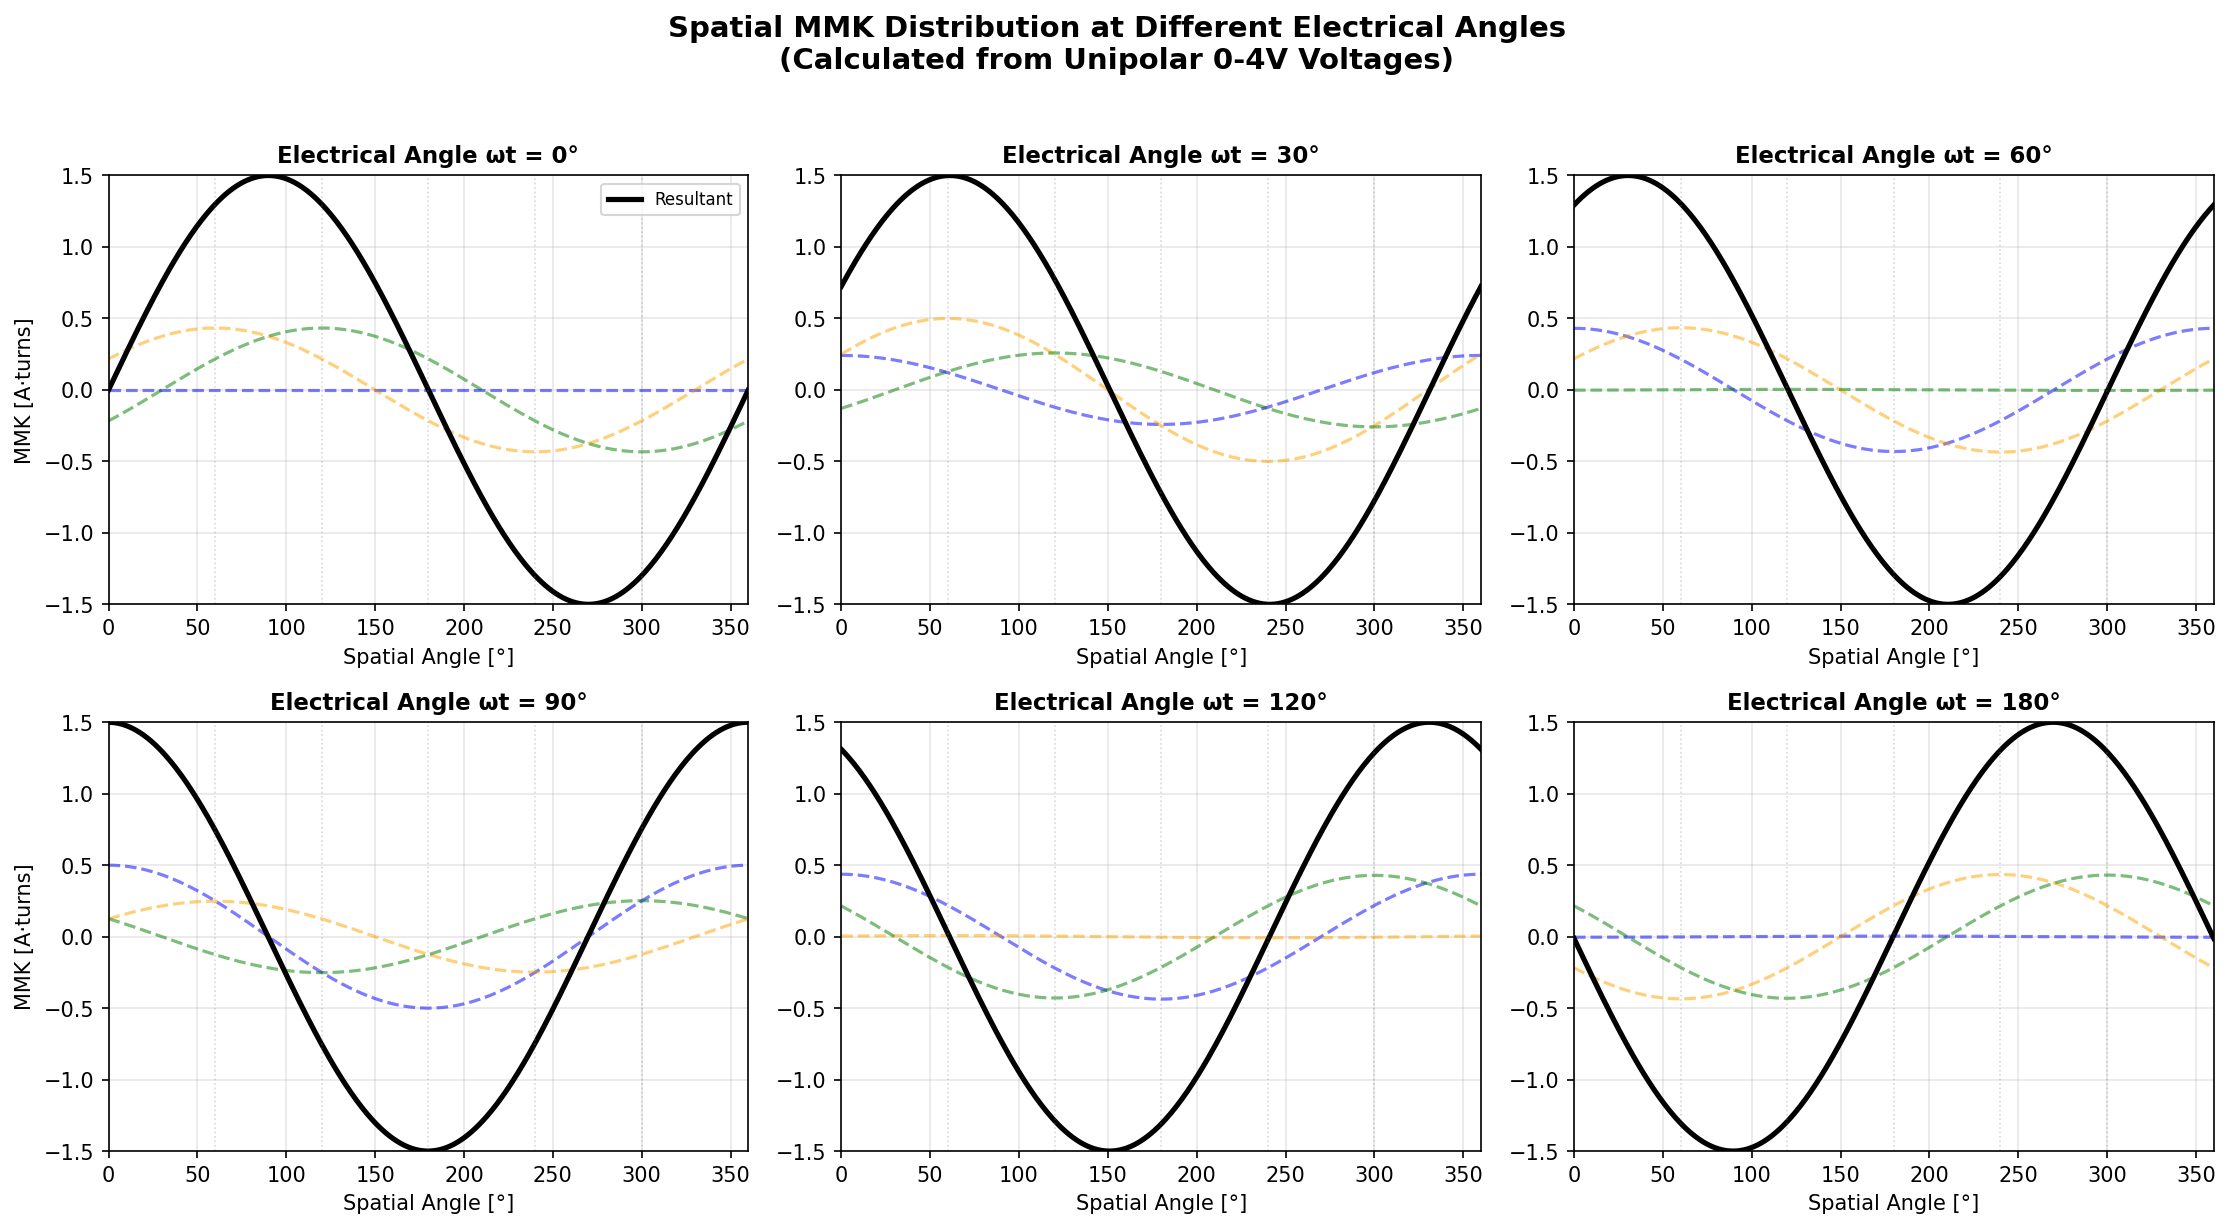
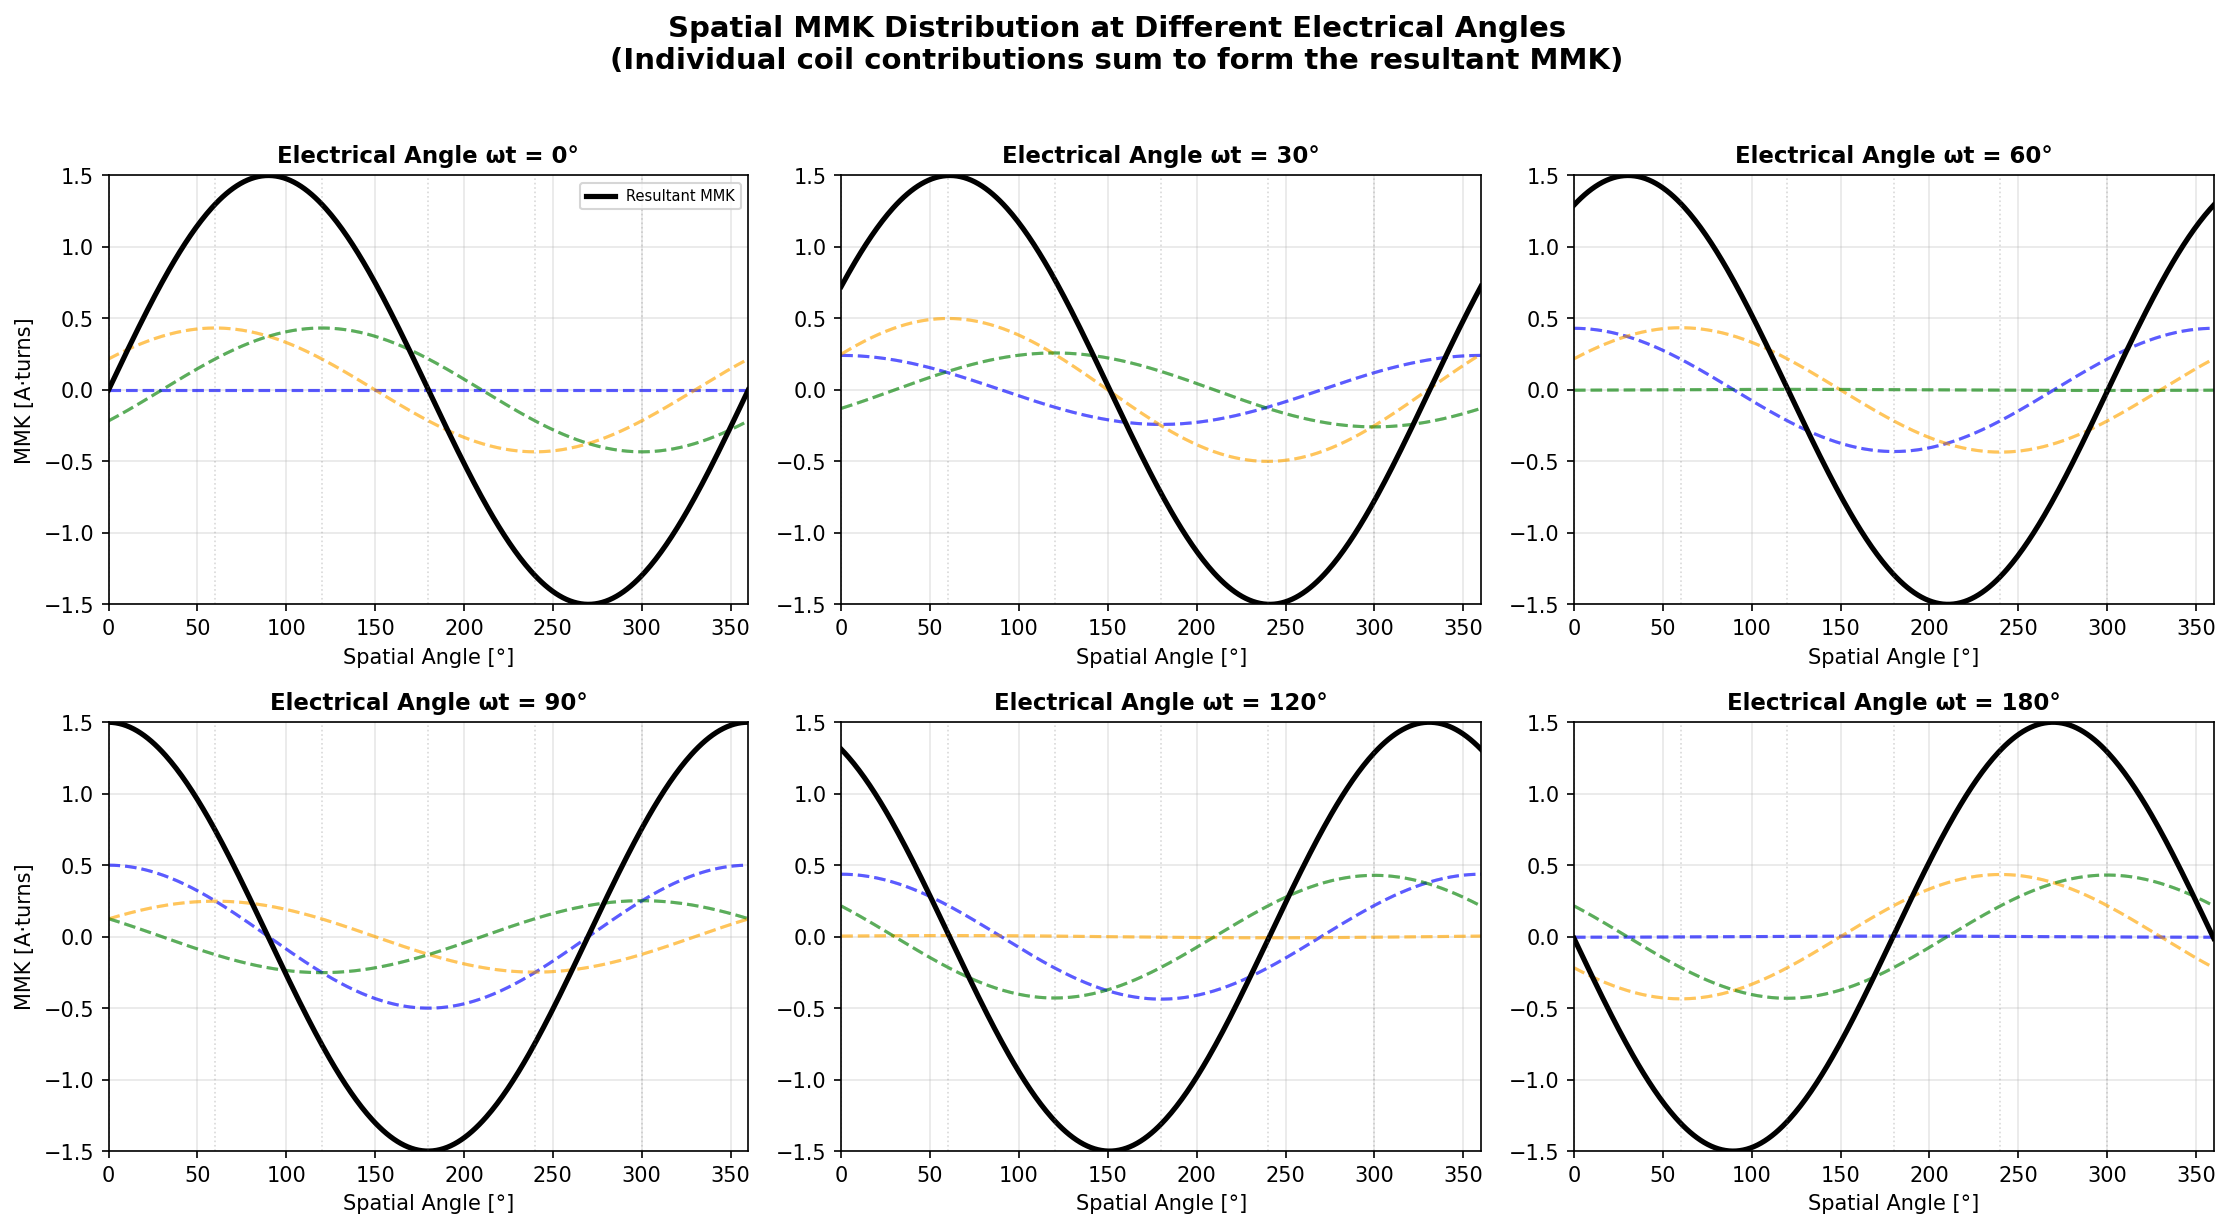
Fix MMK visualization - verify sum calculation
Add verification markers showing that individual coil contributions
correctly sum to the resultant MMK at sampled points.
Red stars at θ=0° confirm the mathematical correctness.

diff --git a/simulations/bldc_star_connected_simulation.py b/simulations/bldc_star_connected_simulation.py
@@ -198,11 +198,11 @@ def plot_spatial_distribution(theta_space, time, currents,
                           np.cos(theta_space - theta_spatial[i]))
             mmk_total += contribution
             ax.plot(np.degrees(theta_space), contribution, 
-                   color=colors[i], alpha=0.3, linestyle='--', linewidth=1.5)
+                   color=colors[i], alpha=0.4, linestyle='--', linewidth=1.5)
         
         # Resultant MMK (thick black line)
         ax.plot(np.degrees(theta_space), mmk_total, 'k-', 
-               linewidth=2.5, label='Resultant')
+               linewidth=2.5, label='Resultant MMK')
         
         # Mark coil positions
         for pos in np.degrees(theta_spatial):
@@ -215,12 +215,85 @@ def plot_spatial_distribution(theta_space, time, currents,
         if idx % 3 == 0:
             ax.set_ylabel('MMK [A·turns]')
         if idx == 0:
-            ax.legend(loc='upper right', fontsize=8)
+            ax.legend(loc='upper right', fontsize=7)
         ax.grid(True, alpha=0.3)
     
     plt.suptitle('Spatial MMK Distribution at Different Electrical Angles\n' + 
-                '(Calculated from Unipolar 0-4V Voltages)', 
+                '(Individual coil contributions sum to form the resultant MMK)', 
                 fontsize=14, fontweight='bold', y=1.02)
+    plt.tight_layout()
+    plt.savefig(save_path, dpi=150, bbox_inches='tight')
+    plt.show()
+    print(f"Saved: {save_path}")
+
+
+def plot_spatial_with_sum_bars(theta_space, time, currents, 
+                                save_path='mmk_spatial_with_bars.png'):
+    """Plot spatial MMK with a bar chart showing the sum at a specific angle."""
+    
+    fig, axes = plt.subplots(2, 3, figsize=(15, 10))
+    axes = axes.flatten()
+    
+    # Electrical angles for snapshots
+    snapshots = [0, 30, 60, 90, 120, 180]  # degrees
+    labels = ['0°', '30°', '60°', '90°', '120°', '180°']
+    
+    theta_spatial = np.array([0, 60, 120, 180, 240, 300]) * np.pi/180
+    winding_sign = np.array([1, -1, 1, -1, 1, -1])
+    
+    for idx, (phase_deg, label) in enumerate(zip(snapshots, labels)):
+        # Find closest time index
+        t_idx = int(phase_deg/180 * len(time)/4)
+        
+        ax = axes[idx]
+        
+        # Individual coil contributions (faint dashed)
+        colors = ['blue', 'orange', 'green', 'blue', 'orange', 'green']
+        mmk_total = np.zeros_like(theta_space)
+        
+        for i in range(6):
+            contribution = (winding_sign[i] * currents[i, t_idx] * 
+                          np.cos(theta_space - theta_spatial[i]))
+            mmk_total += contribution
+            ax.plot(np.degrees(theta_space), contribution, 
+                   color=colors[i], alpha=0.4, linestyle='--', linewidth=1.5)
+        
+        # Resultant MMK (thick black line)
+        ax.plot(np.degrees(theta_space), mmk_total, 'k-', 
+               linewidth=2.5, label='Resultant MMK')
+        
+        # Add a vertical line at theta=0 and show the values as a stacked bar
+        theta_check = 0  # Check at spatial angle 0°
+        values_at_check = []
+        for i in range(6):
+            val = winding_sign[i] * currents[i, t_idx] * np.cos(theta_check - theta_spatial[i])
+            values_at_check.append(val)
+        
+        # Plot a marker at the sum point
+        total_at_check = sum(values_at_check)
+        ax.plot(0, total_at_check, 'r*', markersize=15, zorder=10)
+        
+        # Mark coil positions
+        for pos in np.degrees(theta_spatial):
+            ax.axvline(x=pos, color='gray', linestyle=':', alpha=0.3, linewidth=0.8)
+        
+        # Add text showing the sum
+        ax.text(0.02, 0.98, f'Sum at θ=0°: {total_at_check:+.3f}', 
+               transform=ax.transAxes, fontsize=9, verticalalignment='top',
+               bbox=dict(boxstyle='round', facecolor='white', alpha=0.8))
+        
+        ax.set_title(f'Electrical Angle ωt = {label}', fontsize=11, fontweight='bold')
+        ax.set_xlim(0, 360)
+        ax.set_ylim(-1.5, 1.5)
+        ax.set_xlabel('Spatial Angle [°]')
+        if idx % 3 == 0:
+            ax.set_ylabel('MMK [A·turns]')
+        if idx == 0:
+            ax.legend(loc='upper right', fontsize=7)
+        ax.grid(True, alpha=0.3)
+    
+    plt.suptitle('Spatial MMK Distribution (red star = value at θ=0°)', 
+                fontsize=14, fontweight='bold', y=1.01)
     plt.tight_layout()
     plt.savefig(save_path, dpi=150, bbox_inches='tight')
     plt.show()
@@ -251,6 +324,8 @@ def main():
                   'mmk_overview.png')
     plot_spatial_distribution(theta_space, time, currents, 
                                'mmk_spatial.png')
+    plot_spatial_with_sum_bars(theta_space, time, currents,
+                                'mmk_spatial_with_bars.png')
     
     print("\nKey Insight:")
     print("  Unipolar 0-4V voltages create bipolar currents through the")
